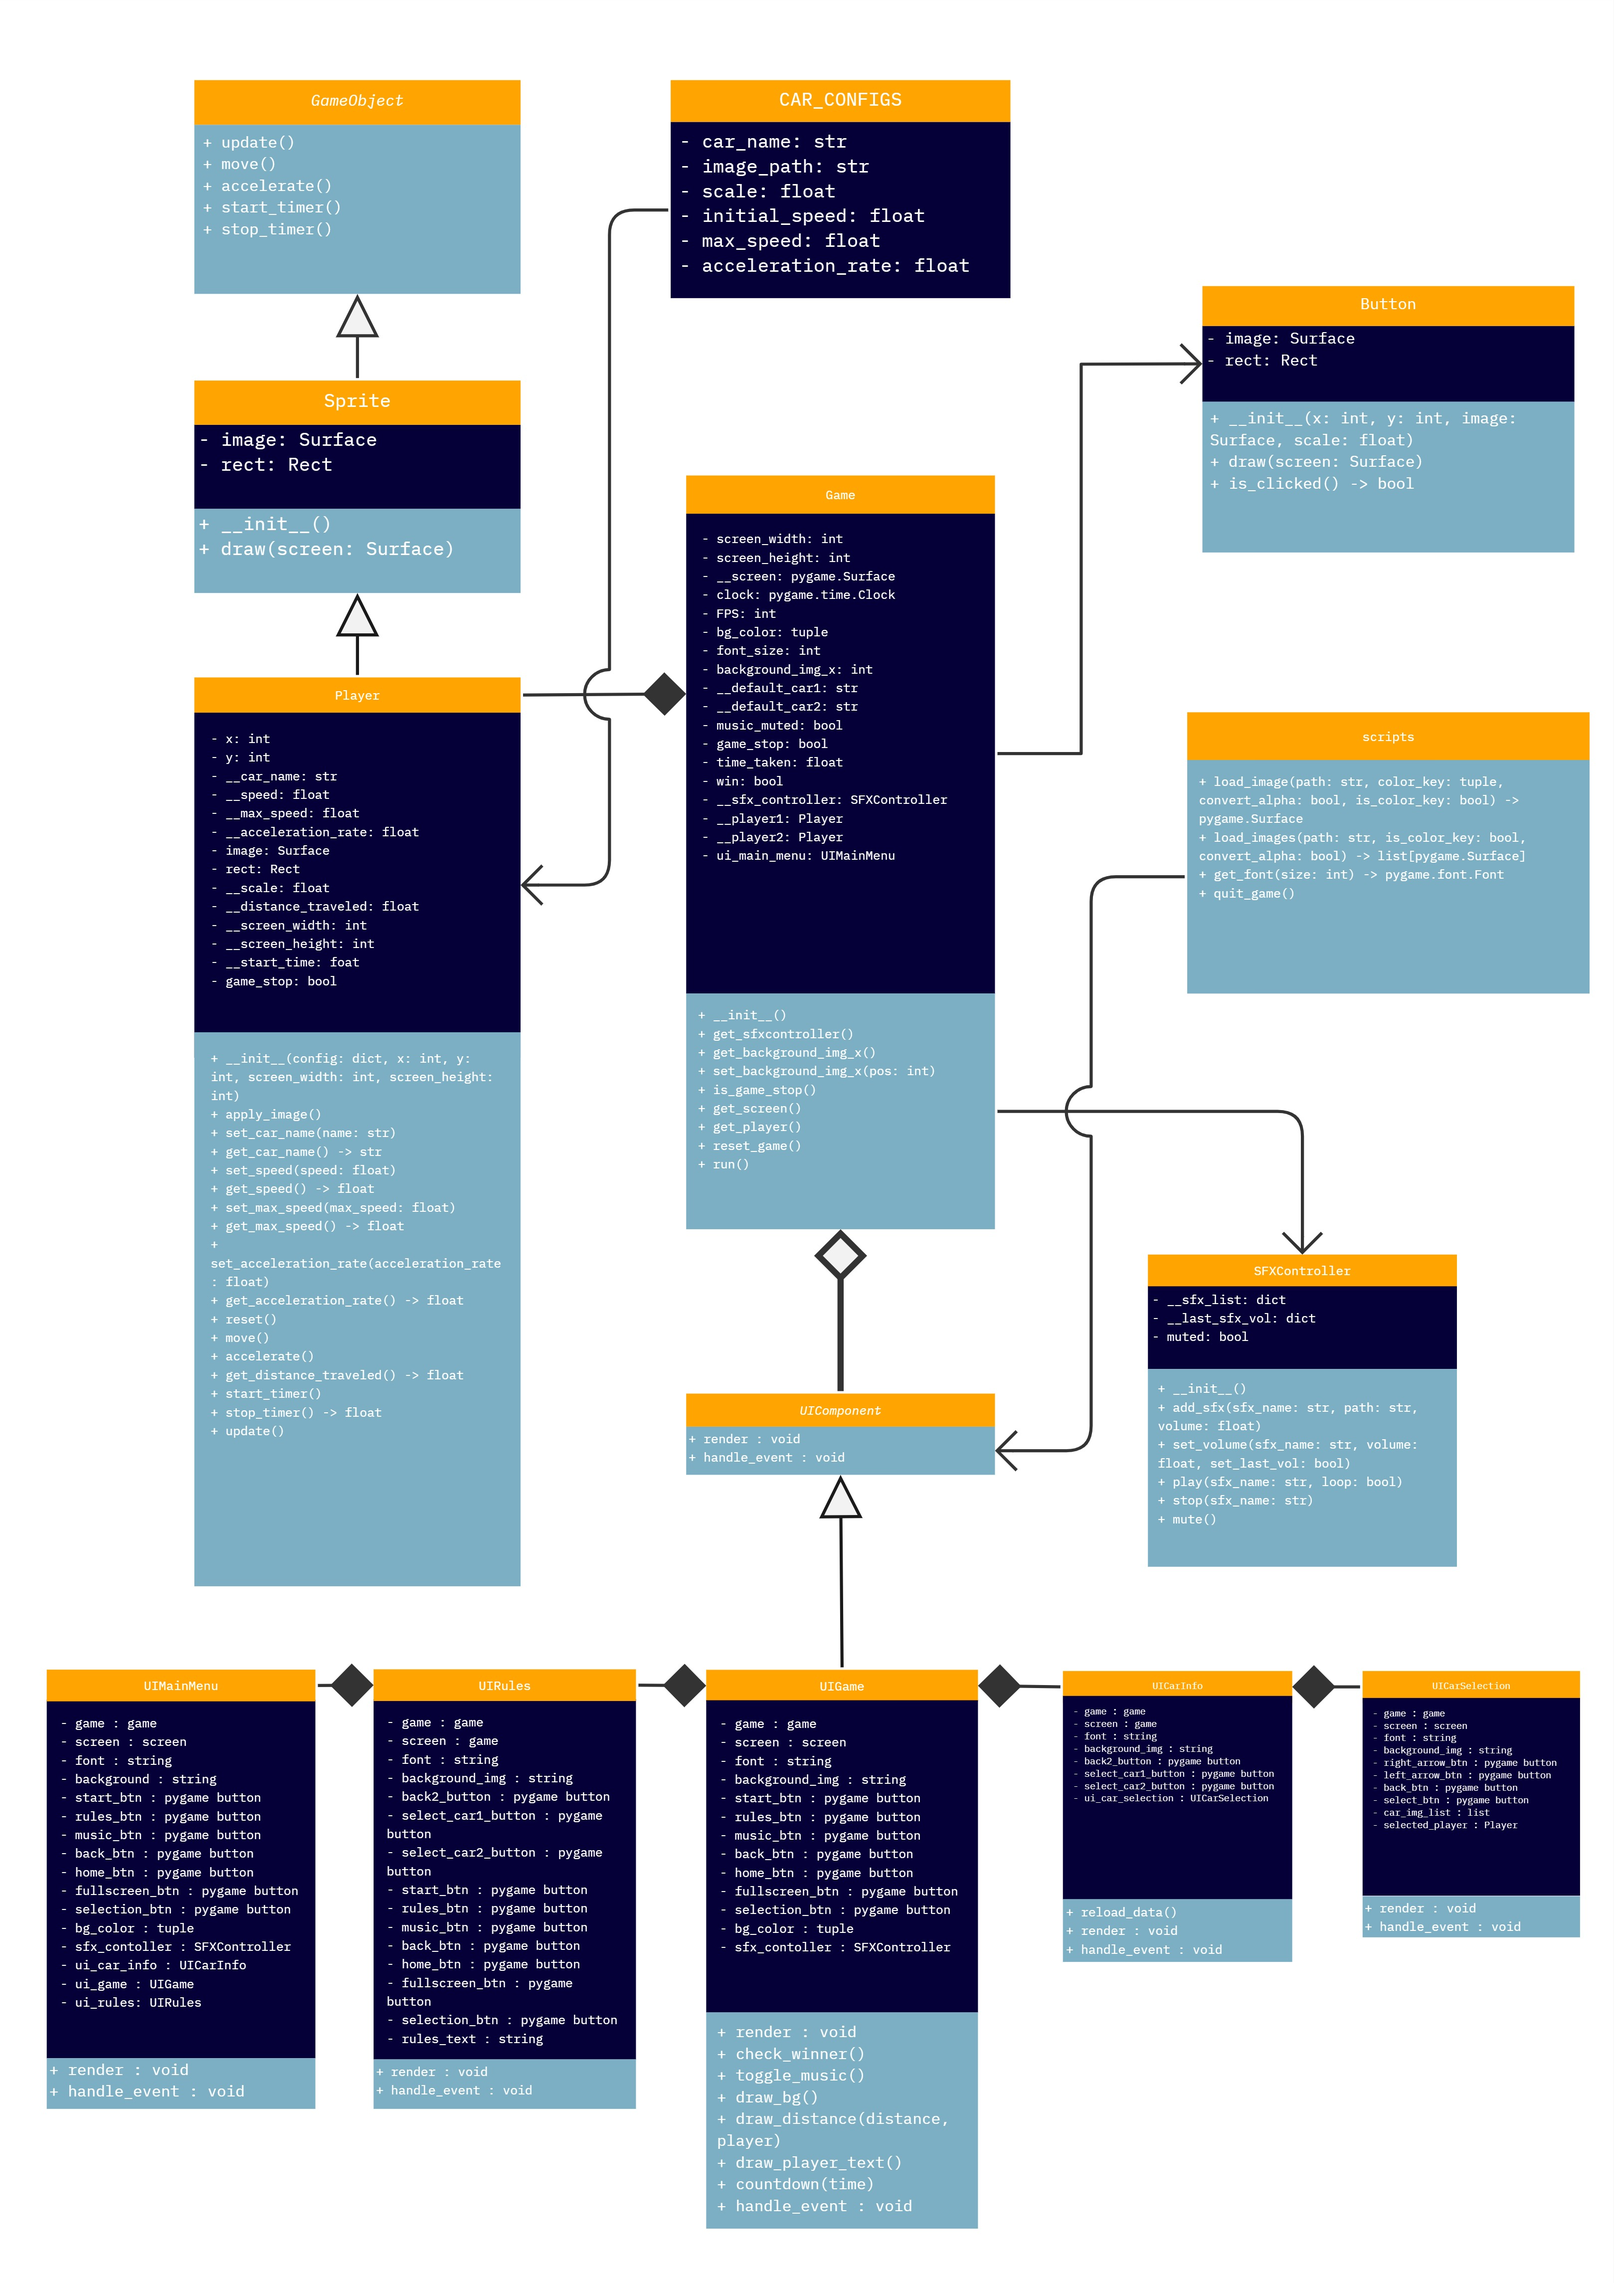
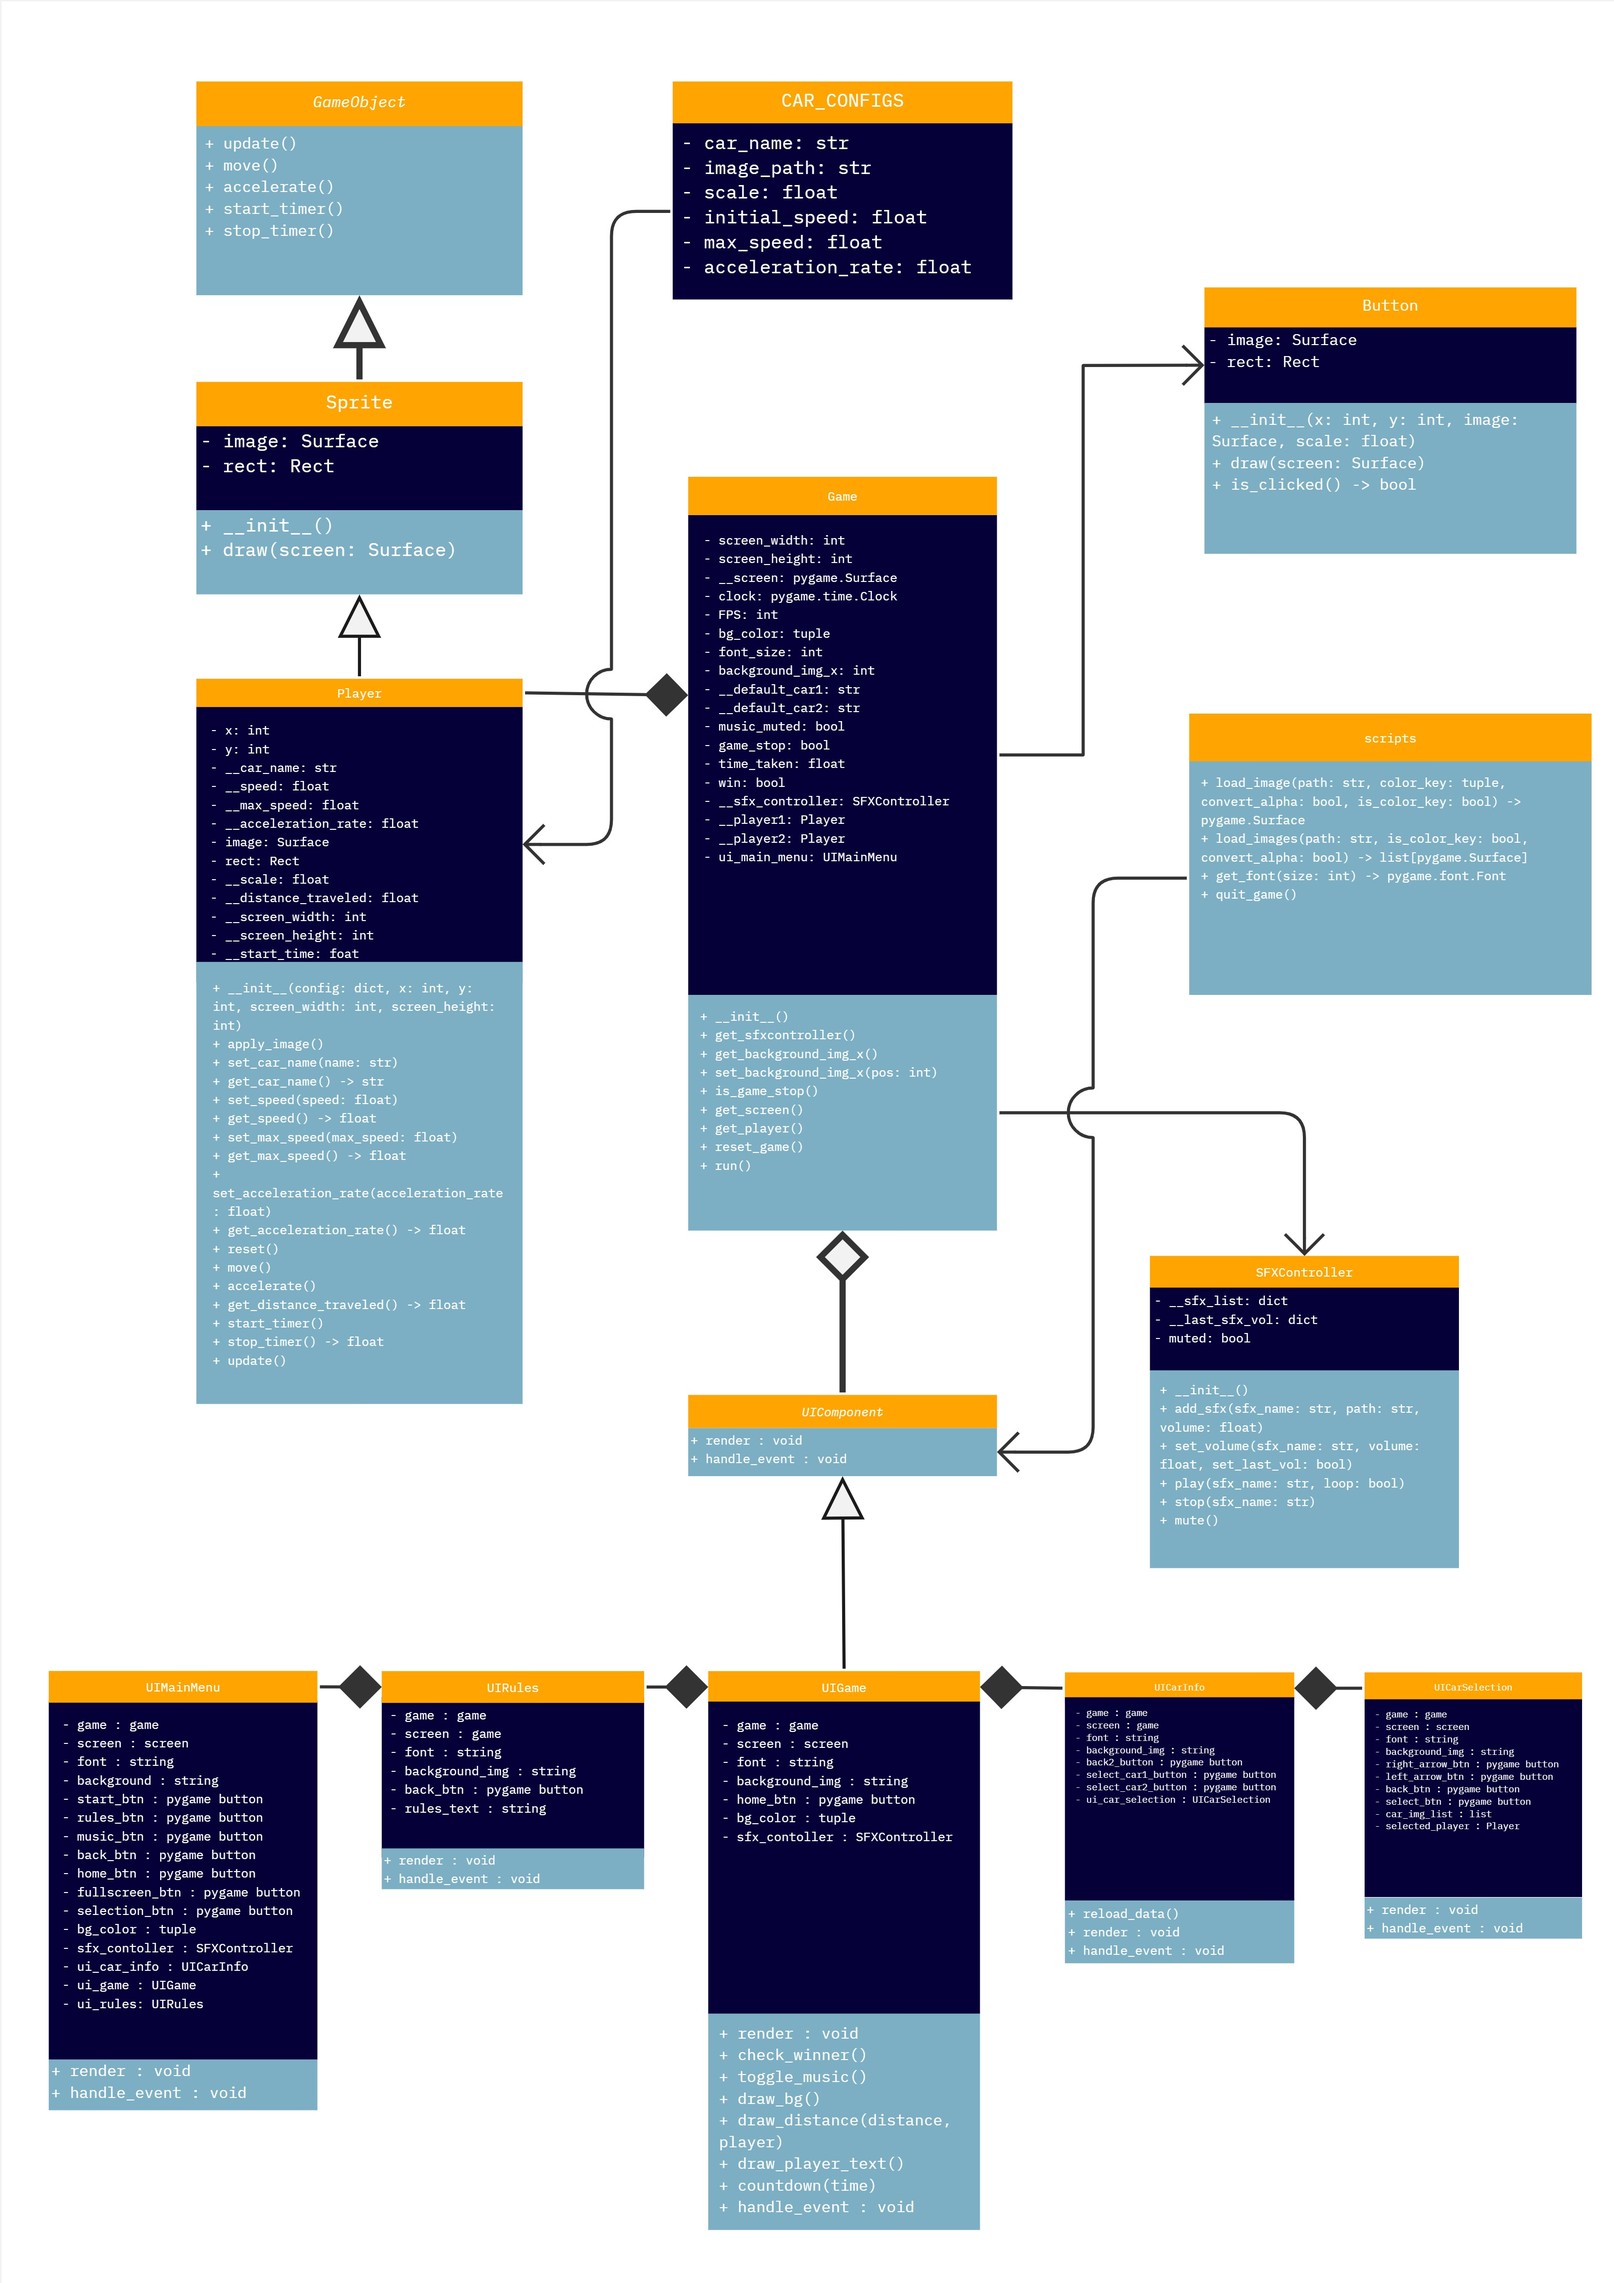
chore: Remove unused buttons and update UML

diff --git a/ui/ui_rules.py b/ui/ui_rules.py
@@ -12,12 +12,6 @@ class UIRules(UIComponent):
         self.font = get_font(36)  # Load the font with size 36
         self.background_img = load_image('bgfortuner.png', is_color_key=False)  # Load the background image
 
-        # Initialize various buttons used in the UI
-        self.back2_button = Button(520, 550, load_image('back.png', convert_alpha=True), 0.2)
-        self.select_car1_button = Button(323, 444, load_image('back.png', convert_alpha=True), 0.2)
-        self.select_car2_button = Button(664, 444, load_image('back.png', convert_alpha=True), 0.2)
-        self.back_btn = Button(50, 600, load_image('back.png', convert_alpha=True), 0.2)
-
         self.bg_color = (144, 201, 120)  # Set the background color
 
         # Define the rules text
